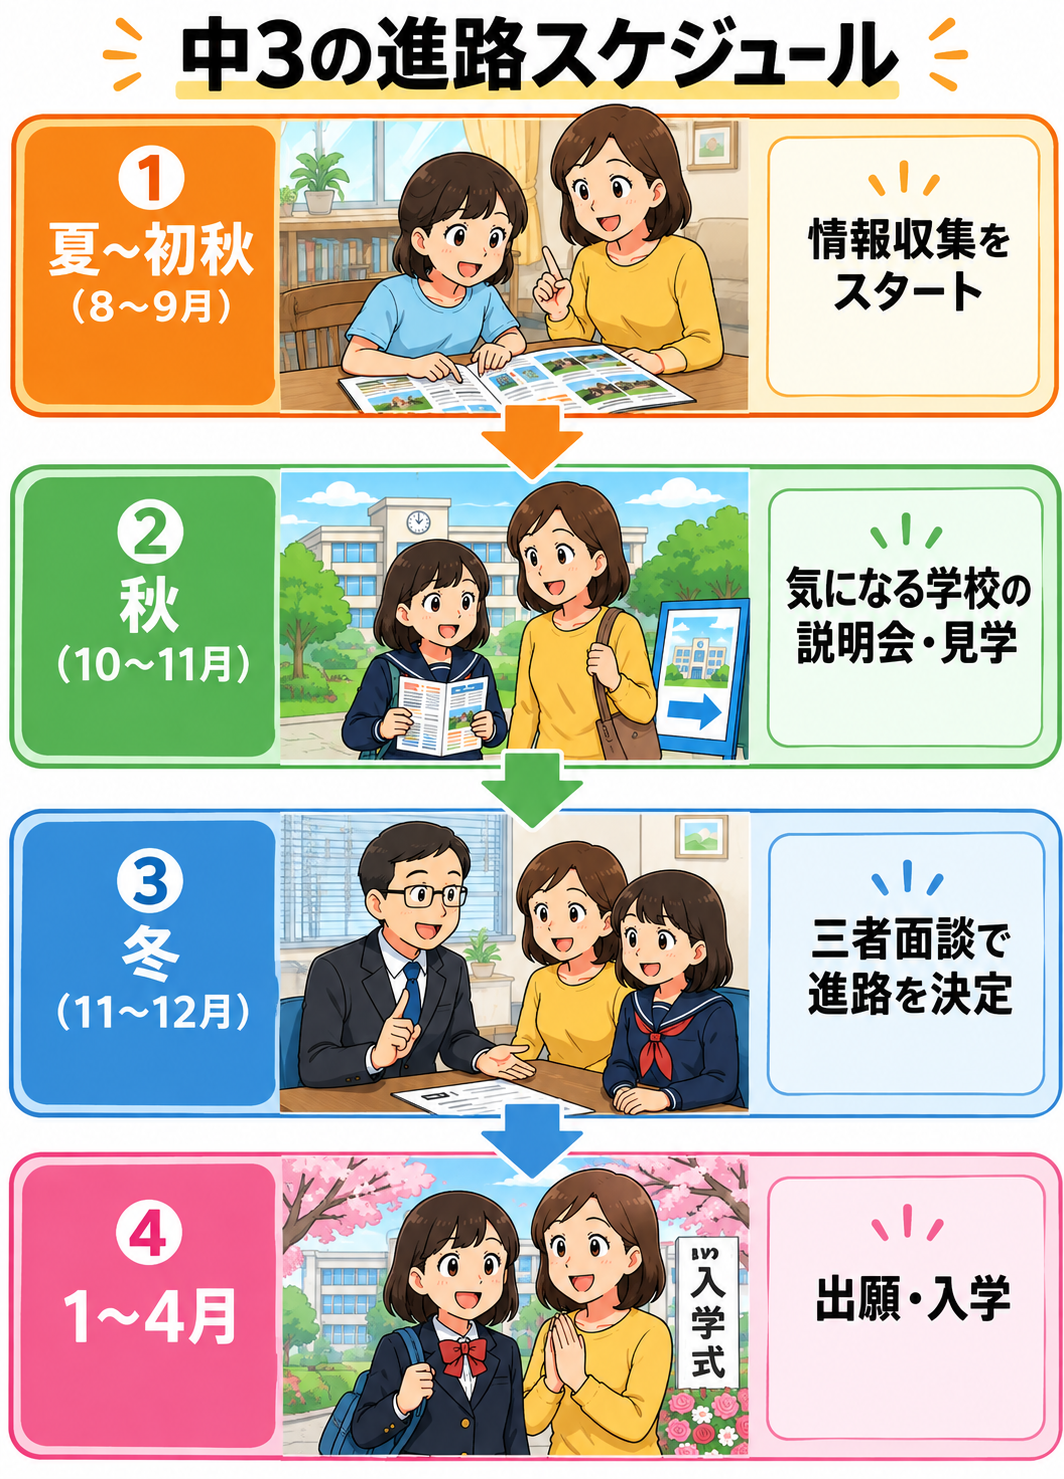
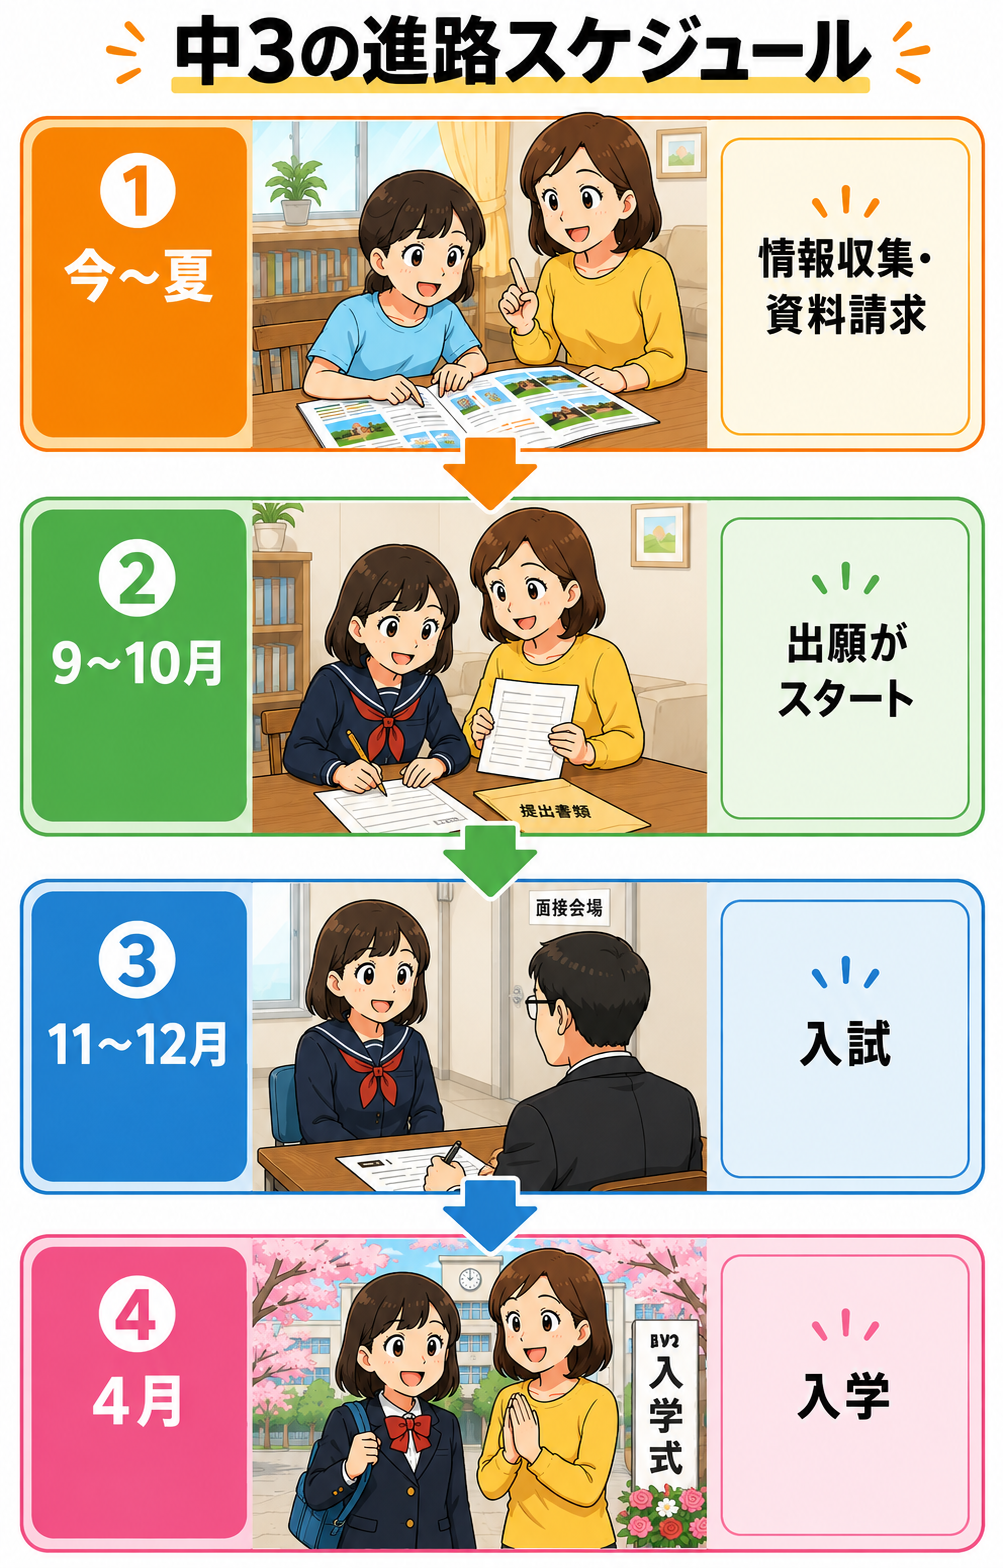
futoukou LP をクライアント修正・微調整（ミスマッチ路線へ変更ほか）
- 「学校が盛る」批判 → 「希望と学校のミスマッチ」ストーリーに変更（新4コマ＋顔つき後悔の声3件）
- 選び方①を大手母体→HP＋パンフレット、h2を「人気の学校6選」に
- 6校の訴求文を公式LPの文言に統一
- スケジュール図を出願ベース（9-10月出願/11-12月入試/4月入学）に差し替え、焦らせ文も調整
- 利用者数20万人・生徒数31万人に更新、hero画像差し替え
- 追従CTA非表示・テキストリンク2行化・スクロールキュー追加・色/改行など多数の微調整

diff --git a/futoukou.html b/futoukou.html
@@ -177,6 +177,16 @@ td.num{white-space:nowrap; font-variant-numeric:tabular-nums;}
   font-size:18px;
 }
 
+/* 後悔の声（顔つき吹き出し） */
+.voices{margin:0 0 22px;}
+.voice{display:flex; gap:12px; align-items:flex-start; margin-bottom:14px;}
+.voice:last-child{margin-bottom:0;}
+.voice-face{width:54px; height:54px; flex:0 0 auto; border-radius:50%; overflow:hidden; background:#F0F0F0; border:2px solid #fff; box-shadow:0 1px 5px rgba(0,0,0,.15);}
+.voice-face img{width:100%; height:100%; object-fit:cover; display:block;}
+.voice-bubble{position:relative; background:var(--yellow-bg); border:1px solid #EFE0B0; border-radius:12px; padding:12px 15px; margin:0; font-size:15px; font-weight:700; line-height:1.65; color:var(--ink);}
+.voice-bubble::before{content:""; position:absolute; left:-9px; top:17px; border-style:solid; border-width:7px 9px 7px 0; border-color:transparent #EFE0B0 transparent transparent;}
+.voice-bubble::after{content:""; position:absolute; left:-7px; top:18px; border-style:solid; border-width:6px 8px 6px 0; border-color:transparent var(--yellow-bg) transparent transparent;}
+
 /* 問いかけの見出しバー（ピンク） */
 .qbar{
   background:var(--pink); color:#fff; font-weight:800;
@@ -231,6 +241,9 @@ h2.qbar{border-left:none; font-size:20px; margin:52px 0 20px;}
 @keyframes cue-bounce{0%,100%{transform:translateY(0);} 50%{transform:translateY(7px);}}
 @media (prefers-reduced-motion:reduce){.scroll-cue svg{animation:none;}}
 .ul{font-weight:700; text-decoration:underline; text-underline-offset:3px;}
+.red{color:#e60000; font-weight:700;}
+.blue{color:#2b8cd9; font-weight:700;}
+.marker.pink{background-image:linear-gradient(transparent 58%, #F9C7D6 58%);}
 .cite{font-size:12px; color:var(--ink-sub);}
 .cta{
   background:var(--teal-bg); border:2px solid var(--teal); border-radius:12px;
@@ -304,6 +317,7 @@ h2.qbar{border-left:none; font-size:20px; margin:52px 0 20px;}
 
 /* 追従CTA（スマホのみ・スクロール後に出現） */
 #fixcta{
+  display:none; /* ★追従CTAを一旦非表示。復活させるにはこの display:none の行を削除するだけ */
   position:fixed; left:0; right:0; bottom:0; z-index:100; padding:10px 14px;
   background:rgba(255,255,255,.96); border-top:1px solid var(--line);
   transform:translateY(120%); transition:transform .3s ease;
@@ -333,74 +347,86 @@ footer{margin-top:60px; padding-top:24px; border-top:1px solid var(--line); font
      導入
      ==================================================================== -->
 <figure>
-  <img src="images/futoukou/01-futoukou-hero.png" alt="不登校経験者向け 失敗しない通信制高校・サポート校6選 2026年版">
+  <img src="images/futoukou/01-futoukou-hero_2.png" alt="不登校経験者向け 失敗しない通信制高校・サポート校6選 2026年版">
   <div class="imgph">FV画像（images/futoukou/01-futoukou-hero.png）</div>
 </figure>
 
-<p>子供が不登校になると、大きく不安を抱えますよね。</p>
+<p>子供が不登校になると、大きく不安を抱えますよね⋯</p>
 
 <ul class="zabuton">
   <li>今日も学校にいかなかった⋯</li>
   <li>何を聞いても、何も応えてくれない</li>
-  <li>子どもの将来を考えると…絶望する日々⋯</li>
+  <li>子どもの将来を考えると…<strong class="red">絶望する日々</strong>⋯</li>
 </ul>
 
-<p><strong>「不登校の子でも通える高校を探してあげたい」</strong></p>
+<p><strong>「不登校のうちの子でも通える高校を探してあげたい」</strong></p>
 <p>そう思ってネットで情報収集をしていませんか？</p>
 
 <div class="bubbles">
   <p class="bubble">家から近いからここでいいかな</p>
-  <p class="bubble">学費がやすいからここでいいかな</p>
+  <p class="bubble">学費が安いからここでいいかな</p>
 </div>
 
-<p class="qbar">その学校選び、"なんとなく"で決めていませんか？</p>
+<p>その探し方、<strong class="red">かなり危険</strong>です。</p>
 
-<p>その探し方、<strong class="hl">かなり危険</strong>です。</p>
+<p class="qbar">よくある“ミスマッチ”の後悔</p>
 
-<p>ネットやパンフレットには、<strong>"実際とはちがう"通信制高校・サポート校の情報</strong>が、たくさん出回っているからです。</p>
+<p>通信制高校で後悔する一番の原因は、じつは<strong>学校の良し悪しではありません</strong>。<br><strong>「自分の希望」と「学校の特色」が合っていなかった</strong>——いわゆる“ミスマッチ”です。</p>
 
-<p class="qbar">なぜ、"良さそうに見える"学校で後悔するのか？</p>
-
-<p>理由はシンプルです。一部の学校が、生徒を集めるために、パンフや説明会で<strong>"良いところ"だけを大きく見せている</strong>からです。</p>
-
-<p>少子化でも通信制に通う生徒は増え続け、今では高校生の約10人に1人。学校どうしの競争も激しくなっています。ありのままを正直に伝えると選ばれにくいため、どうしても表現が"盛られ"がちになります。</p>
-
-<p>だから、<span class="marker">「自分のペースで」「一人ひとりに寄り添う」といった耳ざわりのいい言葉ほど、入学後の実態とズレている</span>ことがあります。</p>
-
-<p>実際には、こんな「オモテ」と「ウラ」があります。</p>
+<div class="scroll-cue" aria-hidden="true">
+  <svg width="44" height="34" viewBox="0 0 44 34" fill="none" xmlns="http://www.w3.org/2000/svg">
+    <path d="M8 7 L22 19 L36 7" stroke="#9AA0A6" stroke-width="4" stroke-linecap="round" stroke-linejoin="round"/>
+    <path d="M8 16 L22 28 L36 16" stroke="#9AA0A6" stroke-width="4" stroke-linecap="round" stroke-linejoin="round"/>
+  </svg>
+</div>
 
 <figure>
-  <img src="images/futoukou/02-futoukou-uraomote_hikaku.png" alt="通信制高校のパンフで言われること（オモテ）と入学後の実態（ウラ）の比較">
-  <div class="imgph">裏表 対比表（images/futoukou/02-futoukou-uraomote_hikaku.png）</div>
+  <img src="images/futoukou/06-futoukou-mismatch-4koma.png" alt="家から近いという理由だけで週3コースを選び、自分に合わず後悔する中学生の4コマ漫画">
+  <div class="imgph">4コマ漫画（images/futoukou/06-futoukou-mismatch-4koma.png）</div>
 </figure>
 
-<p class="qbar">なぜこうなるのか・・？</p>
+<div class="voices">
+  <div class="voice">
+    <div class="voice-face"><img src="images/futoukou/07-voice-01.png" alt=""></div>
+    <p class="voice-bubble">ネットの情報だけで決めたけど、入学したら印象が全然違った…</p>
+  </div>
+  <div class="voice">
+    <div class="voice-face"><img src="images/futoukou/07-voice-02.png" alt=""></div>
+    <p class="voice-bubble">1校しか資料を取らなかった。他と比べれば、もっと合う学校があったかも…</p>
+  </div>
+  <div class="voice">
+    <div class="voice-face"><img src="images/futoukou/07-voice-03.png" alt=""></div>
+    <p class="voice-bubble">適当に普通コースに入ったけど、自分の興味は美容の専門コースだった⋯</p>
+  </div>
+</div>
 
-<p>その主な原因は、生徒が集まらず定員割れしている学校は、<span class="marker">条件をよく見せないと応募が集まらない</span>からです👇</p>
-
-<figure>
-  <img src="images/futoukou/03-futoukou-4koma.png" alt="生徒が集まらない学校が条件をよく見せて生徒を集める仕組みを描いた4コマ漫画">
-  <div class="imgph">4コマ漫画（images/futoukou/03-futoukou-4koma.png）</div>
-</figure>
+<p><br>こうした後悔の多くは、<span class="marker">“もっと調べていれば”防げた</span>ものです。<br><br>家からの距離やイメージだけで決めず、<strong>通学ペース・コース・サポート</strong>まで見比べておくことが、後悔しない選び方につながります。</p>
 
 
 <!-- ====================================================================
      失敗しない選び方（3軸）
      ==================================================================== -->
-<p>生徒を集めたい学校ほど、パンフや広告では"良い面"だけが強調されます。その仕組みを知らずに「なんとなく良さそう」で決めてしまうと、"こんなはずじゃなかった"につながります。</p>
+<p>とはいえ、通信制・サポート校は<strong>学校ごとに特色がまったく違います</strong>。だからこそ、自分に合うかを見極めるポイントを知っておくことが大切です。</p>
 
-<p>でも裏を返せば——<strong>選ぶ側が「見るべきポイント」を知っていれば、盛られた言葉に惑わされず、本当に合う学校を見抜けます。</strong></p>
+<p>次の<span class="marker pink">3つ</span>を押さえれば、<strong>ミスマッチはぐっと減らせます</strong>。</p>
 
-<h2 id="cta-from" class="qbar">不登校からの学校選びで、失敗しないための3つのポイント</h2>
+<div class="scroll-cue" aria-hidden="true">
+  <svg width="44" height="34" viewBox="0 0 44 34" fill="none" xmlns="http://www.w3.org/2000/svg">
+    <path d="M8 7 L22 19 L36 7" stroke="#9AA0A6" stroke-width="4" stroke-linecap="round" stroke-linejoin="round"/>
+    <path d="M8 16 L22 28 L36 16" stroke="#9AA0A6" stroke-width="4" stroke-linecap="round" stroke-linejoin="round"/>
+  </svg>
+</div>
+
+<h2 id="cta-from" class="qbar">通信制高校選びで、失敗しないための3つのポイント</h2>
 
 <p>不登校のお子さんの場合、何より大切なのは<strong>「無理なく通い続けられるか」</strong>です。次の3つを必ず確認してください。</p>
 
 <div class="point-cards">
   <div class="point-card">
-    <div class="point-icon">🏛</div>
+    <div class="point-icon">📖</div>
     <div class="point-body">
-      <p class="point-title"><span class="num">①</span>運営が「大手の教育グループ」か</p>
-      <p class="point-desc">急な閉校のリスクが低く、サポートや進路の体制も整っています。実態のつかめない学校は、候補から外してOK。</p>
+      <p class="point-title"><span class="num">①</span>HPだけで決めず、パンフレットも見たか</p>
+      <p class="point-desc">HPには載せきれない情報がパンフレットにはたくさん載っています。またキャンパスごとの違いもなかなかHPには載っていないことが多いです。</p>
     </div>
   </div>
   <div class="point-card">
@@ -419,13 +445,18 @@ footer{margin-top:60px; padding-top:24px; border-top:1px solid var(--line); font
   </div>
 </div>
 
-<p>——この3つを、<strong>すべて満たす学校</strong>をご紹介します。</p>
-
 
 <!-- ====================================================================
      この6校が安心
      ==================================================================== -->
-<h2 id="closing" class="qbar">この6校なら、安心して資料請求できます</h2>
+<div class="scroll-cue" aria-hidden="true">
+  <svg width="44" height="34" viewBox="0 0 44 34" fill="none" xmlns="http://www.w3.org/2000/svg">
+    <path d="M8 7 L22 19 L36 7" stroke="#9AA0A6" stroke-width="4" stroke-linecap="round" stroke-linejoin="round"/>
+    <path d="M8 16 L22 28 L36 16" stroke="#9AA0A6" stroke-width="4" stroke-linecap="round" stroke-linejoin="round"/>
+  </svg>
+</div>
+
+<h2 id="closing" class="qbar">人気の学校6選</h2>
 
 <p>ご紹介するのは、<strong>いずれも名の知れた大手教育グループが運営</strong>し、<strong>通学スタイルを選べて、サポートの中身も具体的</strong>な通信制高校・サポート校です。</p>
 
@@ -443,9 +474,9 @@ footer{margin-top:60px; padding-top:24px; border-top:1px solid var(--line); font
       </div>
     </div>
     <ul>
-      <li><strong>全国に100ヶ所以上のキャンパス</strong>があり、お住まいの地域を問わず選択肢に入ります</li>
-      <li>ネットコースのほか、週5日・週3日・週1日＋のコースから選べます</li>
-      <li>在籍数は3万人を超えています</li>
+      <li>3万人突破、高校生の100人に一人がN高生！</li>
+      <li>全国にある100ヶ所以上のキャンパス</li>
+      <li>ネットコース、週5・週3・週1＋コースから選べる</li>
     </ul>
   </div>
 
@@ -459,8 +490,9 @@ footer{margin-top:60px; padding-top:24px; border-top:1px solid var(--line); font
       </div>
     </div>
     <ul>
-      <li>通信制高校・サポート校で<strong>全国No.1の大学進学率</strong><span class="src">※在籍生徒数3,500名以上の通信制高校・サポート校において進学率全国1位。2023年3月23日 産経メディックス調べ。</span></li>
-      <li>体調に合わせて受講スタイルをいつでも変更できます</li>
+      <li>通信制高校・サポート校で、全国No.1<sup>*</sup>の大学進学率！</li>
+      <li>体調に合わせて受講スタイルをいつでも変更できる</li>
+      <li><span class="src">*在籍生徒数3,500名以上の通信制高校・サポート校において進学率全国1位。2023/3/23 産経メディックス調べ。</span></li>
     </ul>
   </div>
 
@@ -474,9 +506,9 @@ footer{margin-top:60px; padding-top:24px; border-top:1px solid var(--line); font
       </div>
     </div>
     <ul>
-      <li>自分に合った通学スタイルが選べて、服装も自由</li>
-      <li>多彩な専門分野が学べて、自分の「好き」が見つかります</li>
-      <li>豊富な学校行事があります</li>
+      <li>自分に合った通学スタイルが選べて、服装も自由！</li>
+      <li>多彩な専門分野が学べて、自分の「好き」が見つかる</li>
+      <li>豊富な学校行事で友達と一緒に思い出作り</li>
     </ul>
   </div>
 
@@ -490,9 +522,9 @@ footer{margin-top:60px; padding-top:24px; border-top:1px solid var(--line); font
       </div>
     </div>
     <ul>
-      <li>教育理念は「1／1（いちぶんのいち）の教育」</li>
+      <li>教育理念「1／1（いちぶんのいち）の教育」</li>
       <li>自分のペースで通える、安心できる高校生活</li>
-      <li>「成長実感型教育」を掲げています</li>
+      <li>「成長実感型教育」で自分を今よりも好きになる！</li>
     </ul>
   </div>
 
@@ -506,9 +538,9 @@ footer{margin-top:60px; padding-top:24px; border-top:1px solid var(--line); font
       </div>
     </div>
     <ul>
-      <li>「なりたい大人になるための学校。<sup>&reg;</sup>」を掲げています</li>
-      <li>先生＝マイコーチ<sup>&reg;</sup>が寄り添います</li>
-      <li>屋久島スクーリングがあります</li>
+      <li>なりたい大人になるための学校。<sup>&reg;</sup></li>
+      <li>先生＝マイコーチ<sup>&reg;</sup>が寄り添い共に歩む</li>
+      <li>屋久島スクーリングで人や自然とつながる！</li>
     </ul>
   </div>
 
@@ -522,25 +554,21 @@ footer{margin-top:60px; padding-top:24px; border-top:1px solid var(--line); font
       </div>
     </div>
     <ul>
-      <li>通信教育大手ベネッセのノウハウを活かした指導</li>
+      <li>通信教育大手ベネッセのノウハウを凝縮</li>
       <li>クラス担任と「赤ペンメンター」のWサポート制度</li>
-      <li>総合型選抜に対応しています</li>
+      <li>総合型選抜でやりたいことを叶えられる！</li>
     </ul>
   </div>
 
 </div>
 
-<p>どの学校が合うかは、お子さんの状態やご家庭の事情によって変わります。<br><strong>だからこそ、1校だけで決めず、気になった学校をまとめて見比べるのが確実です。</strong></p>
+<p>どの学校が合うかは、お子さんの状態やご家庭の事情によります。<br><strong>1校だけで決めず、まとめて見比べる</strong>のが確実です。</p>
 
-<p id="pre-cta">とはいえ、気になる学校をひとつずつ調べて、それぞれに問い合わせていくのは、正直かなり大変です。</p>
+<p id="pre-cta">とはいえ、1校ずつ調べて問い合わせるのは、正直かなり大変。<br>そんなときに役立つのが<span class="marker">「ズバット通信制高校比較」</span>です。</p>
 
-<p>そんなときに役立つのが、<span class="marker">「ズバット通信制高校比較」</span>です。</p>
+<p>地域や「<strong>通学のペース</strong>」「<strong>サポート</strong>」「<strong>進学</strong>」などの条件を選ぶだけで、<strong>〈安心の6校〉からまとめて資料請求</strong>できます。</p>
 
-<p>お住まいの地域や「<strong>通学のペース</strong>」「<strong>サポートの手厚さ</strong>」「<strong>進学に強い学校がいい</strong>」といった希望条件を選ぶだけで、<strong>先程の〈安心して紹介できる6校〉</strong>の中から、条件に合った通信制高校を自動でピックアップ。<br><strong>【完全無料・まとめて一括】</strong>で資料を取り寄せられます。</p>
-
-<p>1校ずつ調べる手間はかかりません。<strong>条件を選ぶだけで、まとめて比較できます。</strong><br></p>
-
-<p class="textlink-wrap"><a href="https://ad-fam.com/ad/p/r?_site=49717&amp;_article=16463" class="textlink" data-cta="text-top" rel="sponsored nofollow">「ズバット通信制高校比較」で資料を取り寄せる</a></p>
+<p class="textlink-wrap"><a href="https://ad-fam.com/ad/p/r?_site=49717&amp;_article=16463" class="textlink" data-cta="text-top" rel="sponsored nofollow">【完全無料・まとめて一括】<br>「ズバット通信制高校比較」で資料を取り寄せる</a></p>
 
 <div class="scroll-cue" aria-hidden="true">
   <svg width="44" height="34" viewBox="0 0 44 34" fill="none" xmlns="http://www.w3.org/2000/svg">
@@ -549,23 +577,23 @@ footer{margin-top:60px; padding-top:24px; border-top:1px solid var(--line); font
   </svg>
 </div>
 
-<p class="qbar">実は、よい学校・コースほど早いもの勝ち</p>
+<p class="qbar">実は、もう時間がありません</p>
 
-<p>そして、早いもので<strong>もう夏も終わり</strong>。<br><br>中学3年生なら、<span class="marker">秋から冬にかけて、進路を決める三者面談</span>が控えています。<br>それまでに、お子さんに合う学校を絞り込んでおきたい時期です。</p>
+<p>そして、早いもので<strong>もう夏も終わり</strong>。<br><br><span class="marker">9月には、多くの通信制高校で出願が始まります</span>。<br><strong class="red">今すぐに、資料請求をして学校を比較する必要があります。</strong></p>
 
 <figure>
   <picture>
     <source media="(max-width:767px)" srcset="images/futoukou/04-futoukou-schedule-sp.png">
-    <img src="images/futoukou/04-futoukou-schedule-pc.png" alt="中3の進路スケジュール。夏〜初秋に情報収集、秋に学校説明会・見学、冬に三者面談で進路決定、1〜4月に出願・入学">
+    <img src="images/futoukou/04-futoukou-schedule-pc.png" alt="中3の進路スケジュール。今〜夏に情報収集・資料請求、9〜10月に出願、11〜12月に入試、4月に入学">
   </picture>
   <div class="imgph">中3の進路スケジュール（images/futoukou/04-futoukou-schedule-pc.png）</div>
 </figure>
 
-<p>今や、<strong>毎年およそ29万人</strong>が通うようになった通信制高校。<span class="cite">※文部科学省「学校基本調査」（令和6年度）</span></p>
+<p>今や、<strong>毎年およそ31万人</strong>が通うようになった通信制高校。<span class="cite">※文部科学省「学校基本調査」（令和8年度速報値）</span></p>
 
-<p>人気のコースや学校には応募が殺到し、<strong class="ul">「定員オーバー」</strong>になる可能性もあるので、早めの資料請求をお勧めします。</p>
+<p>人気のコースや学校には応募が殺到し、<strong class="red">「定員オーバー」</strong>になる可能性もあるので、早めの資料請求をお勧めします。</p>
 
-<p>わたしたち親が与えてあげられるのは、<strong class="ul">「未来への選択肢」</strong>くらいしかありません。<br>選択肢が多いうちに、選べる今が、資料請求のタイミングです。</p>
+<p>わたしたち親が与えてあげられるのは、<span class="marker">「未来への選択肢」</span>くらいしかありません。<br>選択肢が多いうちに、選べる今が、資料請求のタイミングです。</p>
 
 
 <!-- ====================================================================
@@ -584,7 +612,7 @@ footer{margin-top:60px; padding-top:24px; border-top:1px solid var(--line); font
 <div class="trust">
   <p class="trust-t">運営元について</p>
   <p>ご紹介しているサービス「<strong>ズバット通信制高校比較</strong>」は、<strong>株式会社ウェブクルー</strong>が運営しています。</p>
-  <p>これまでに<strong>15万人以上</strong>が利用しています<span style="font-size:12px;">（※2023年4月現在）</span>。</p>
+  <p>これまでに<strong>20万人以上</strong>が利用しています<span style="font-size:12px;">（※2025年10月現在）</span>。</p>
   <p>同社は、お客様から取得する個人情報を含むすべての情報について、情報セキュリティの国際規格<strong>「ISO27001（ISMS）」の認証を取得</strong>し、それに基づく管理を行っています。</p>
   <p class="trust-note">お子様の進路にかかわる情報をお預けいただくことになるため、気になる方も多い点だと思い、記載させていただきました。<br><strong>資料請求に費用はかかりません。</strong></p>
 </div>
